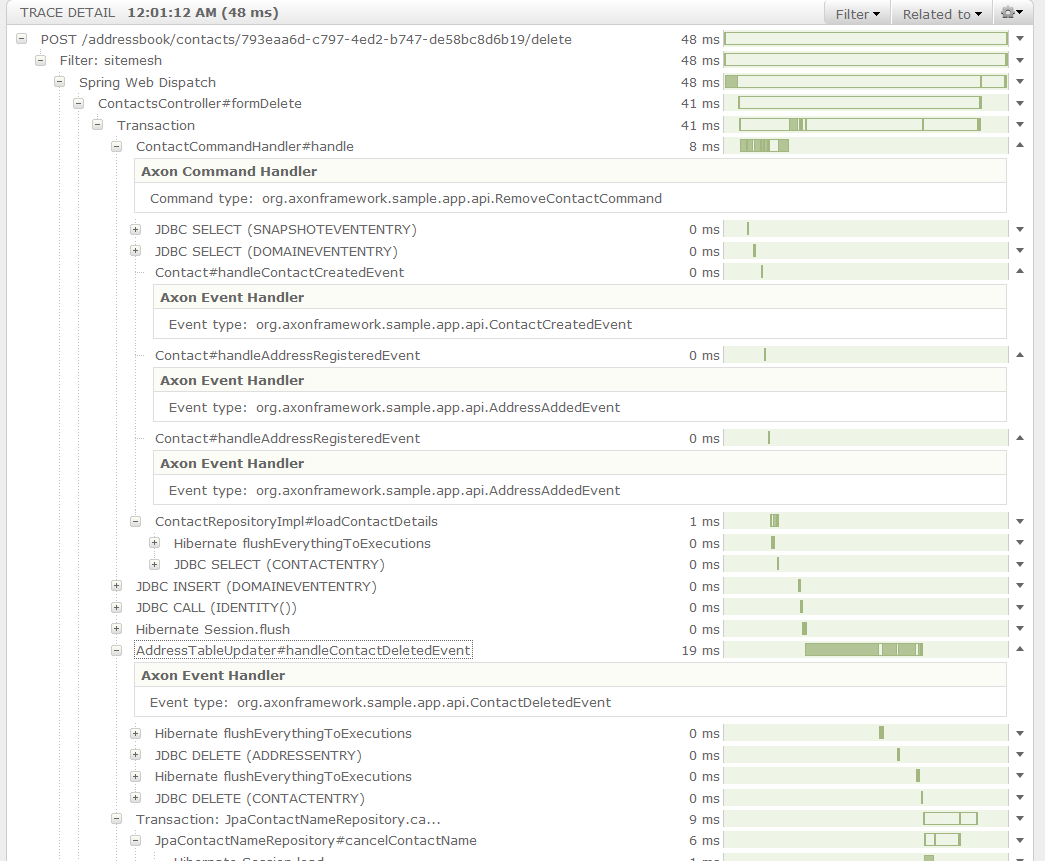
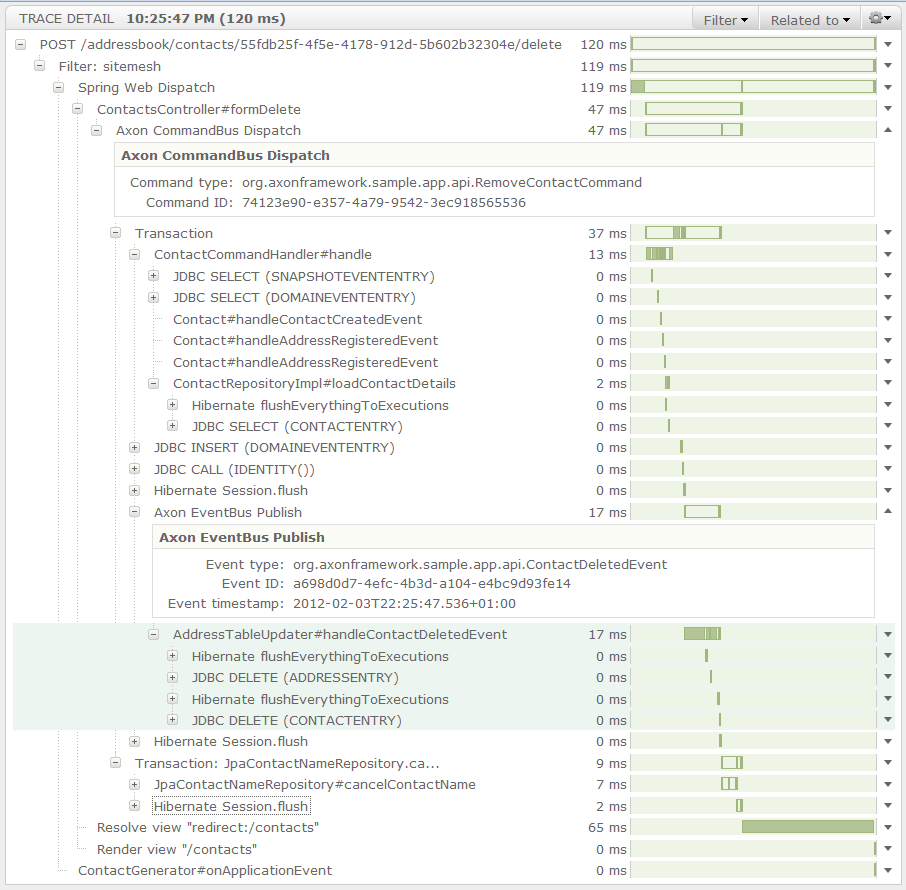
Added readme and updated screenshot.

Changed region(s): [[0.0, 0.0, 1.0, 1.0]]

diff --git a/_import/AxonFramework/spring-insight-plugin/readme.md b/_import/AxonFramework/spring-insight-plugin/readme.md
@@ -1,0 +1,27 @@
+Axon plugin for Spring Insight
+==============================
+
+This project provides a plugin for the Axon framework that can be used with 
+[Spring Insight]{http://www.springsource.org/insight}. It supports Axon 1.x
+versions as well as the 2.0 version that's under development at the time of
+writing.
+
+It creates `Operation` instances for `CommandBus#dispatch`,
+`EventBus#publish`, `Saga#handle` and event and command handler methods (both
+annotated methods and interface-based implementations are matched). In
+addition to that, there are `EndPointAnalyzer` implementations for the handler
+methods: a simple one for sagas, and two for command and event handlers that
+check that the handle invocations take place in the context of their
+corresponding bus. Command and event types are captured, as well as additional
+metadata where available.
+
+Here's an example of a trace containing Axon frames: ![screenshot]{screenshot.png}
+
+Usage
+-----
+
+Simply build the project using `mvn package` and then copy the resulting jar
+file from the `target` directory into the `insight/collection-plugins`
+directory of your Spring Insight-enabled tc Server instance. 
+
+On (re)starting the server, the plugin will be enabled automatically.
